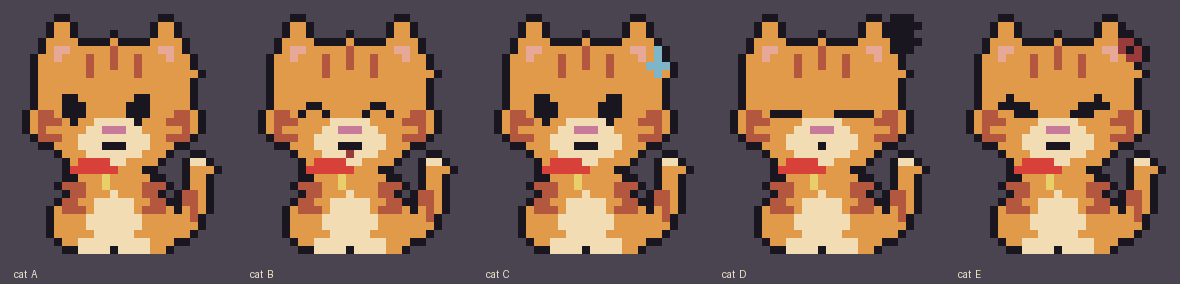
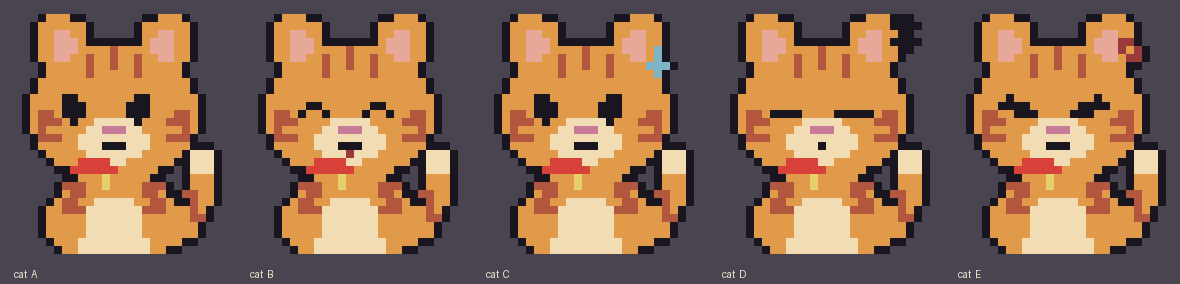
Cat: rounder head, ears, body, tail and paws
Claude-Session: https://claude.ai/code/session_01FPZSaKiVNU2zED737yZX4w

diff --git a/tools/gen_cutecat.py b/tools/gen_cutecat.py
@@ -12,13 +12,14 @@ G.W, G.H = 26, 30
 
 def cat(expr):
     c = C()
-    tube(c, [(17, 28), (22, 25), (23, 19)], 2.6, 2.0, 0, 0, 'o'); c.put(23, 18, 'q'); c.put(22, 18, 'q')   # 꼬리(끝 흰색)
-    c.line(21.4, 22, 22.2, 24.4, 1, ch='a')
-    c.ell(12, 23.6, 5.6, 5.2, 'o'); c.ell(12, 25.4, 3.2, 3.4, 'q')                                          # 몸과 흰 배
-    c.ell(6.6, 25.6, 2.2, 3.2, 'o'); c.ell(17.4, 25.6, 2.2, 3.2, 'o')                                       # 뒷다리 볼록
-    c.ell(9.4, 28.4, 1.9, 1.3, 'q'); c.ell(14.6, 28.4, 1.9, 1.3, 'q')                                       # 모은 앞발
-    c.ell(12, 11.2, 9.8, 8.2, 'o'); c.ell(2.6, 13.2, 1.4, 1.6, 'o'); c.ell(21.4, 13.2, 1.4, 1.6, 'o')       # 큰 둥근 머리와 볼 털
-    tri(c, 5.5, 1, 6, 7, 'o'); tri(c, 18.5, 1, 6, 7, 'o'); c.put(5, 4, 'i'); c.put(6, 4, 'i'); c.put(5, 5, 'i'); c.put(18, 4, 'i'); c.put(19, 4, 'i'); c.put(19, 5, 'i')   # 귀와 분홍 안쪽
+    tube(c, [(17, 28), (22.4, 25.4), (23, 19.5)], 3.2, 2.8, 0, 0, 'o'); c.ell(23, 18.2, 1.7, 1.8, 'q')    # 통통한 꼬리(끝이 둥근 흰색)
+    c.line(21.4, 22, 22.4, 24.6, 1, ch='a')
+    c.ell(12, 23.8, 6.6, 5.8, 'o'); c.ell(12, 25.6, 3.8, 3.6, 'q')                                          # 둥근 몸과 흰 배
+    c.ell(6.2, 25.8, 2.8, 3.4, 'o'); c.ell(17.8, 25.8, 2.8, 3.4, 'o')                                       # 둥근 뒷다리
+    c.ell(9.2, 28.5, 2.3, 1.5, 'q'); c.ell(14.8, 28.5, 2.3, 1.5, 'q')                                       # 모은 앞발
+    c.ell(5.6, 3.6, 3.3, 3.8, 'o'); c.ell(18.4, 3.6, 3.3, 3.8, 'o'); c.ell(4.8, 1.6, 2.0, 2.0, 'o'); c.ell(19.2, 1.6, 2.0, 2.0, 'o')   # 둥근 귀
+    c.ell(5.8, 3.6, 1.5, 1.9, 'i'); c.ell(18.2, 3.6, 1.5, 1.9, 'i')                                         # 귀 안쪽 분홍
+    c.ell(12, 12.0, 10.4, 8.4, 'o')                                                                          # 크고 둥근 머리
     c.ell(12, 15.4, 4.2, 2.8, 'q')                                                                          # 하얀 주둥이
     for x, y0 in ((12, 4), (9.2, 5), (14.8, 5)): c.line(x, y0, x, y0 + 2.2, 1, ch='a')                      # 이마 줄무늬
     for sx in (-1, 1):
